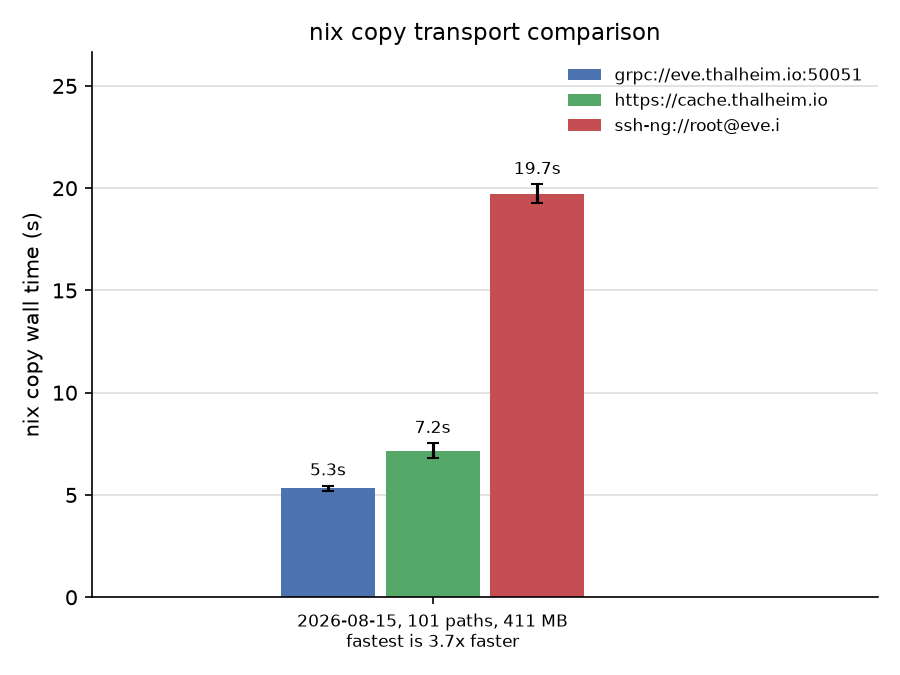
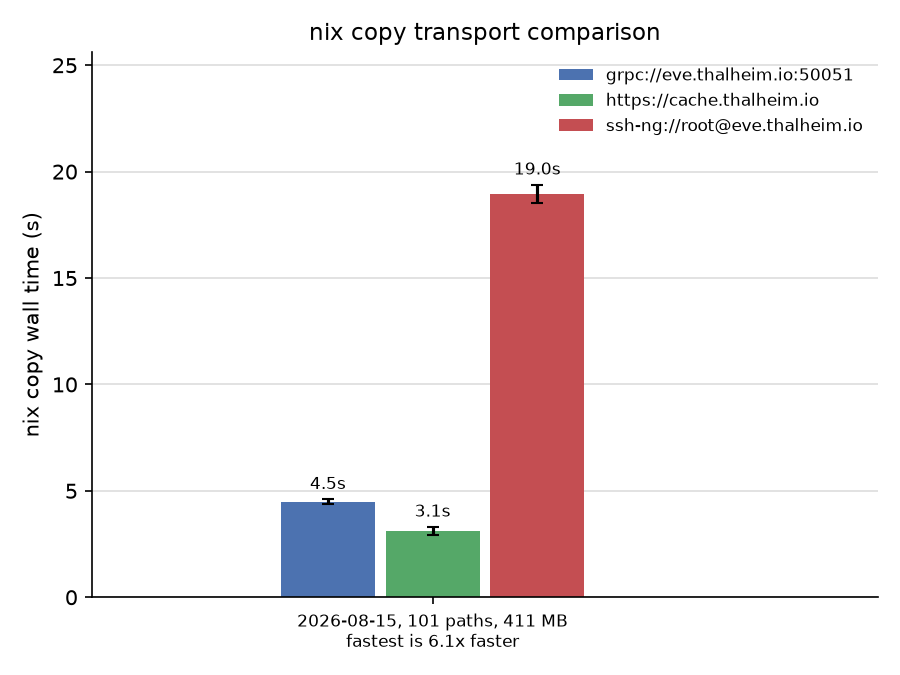
docs: refresh transport benchmark against updated server
Harmonia got significantly faster on the same host, so the old claim of
beating the HTTP binary cache no longer holds: pure downloads are now
fastest over https. Update the numbers and chart, and frame the gRPC
advantage as ssh replacement plus uploads/builds/mTLS on one endpoint.

diff --git a/README.md b/README.md
@@ -3,8 +3,7 @@
 **Status: Beta.** Safe to use but interfaces may change, so you will need to keep server/client in sync.
 
 Remote Nix store access over gRPC instead of SSH. `nix copy` over a WAN
-link is **3.7x faster than `ssh-ng://`** (and 1.4x faster than an HTTP
-binary cache served from the same machine) because round trips are hidden:
+link is **4.2x faster than `ssh-ng://`** because round trips are hidden:
 path-info queries are batched and NAR downloads are pipelined, so wall time
 is bandwidth-bound instead of latency-bound.
 
@@ -42,9 +41,13 @@ wired link with ~47 ms RTT, 6 interleaved runs each:
 
 | Transport                     | Wall time      | Throughput |
 | ----------------------------- | -------------- | ---------- |
-| `grpc://`                     | 5.3 s ± 0.14   | 77 MB/s    |
-| `https://` (harmonia)         | 7.2 s ± 0.37   | 57 MB/s    |
-| `ssh-ng://`                   | 19.7 s ± 0.46  | 21 MB/s    |
+| `https://` (harmonia)         | 3.1 s ± 0.20   | 132 MB/s   |
+| `grpc://`                     | 4.5 s ± 0.12   | 92 MB/s    |
+| `ssh-ng://`                   | 19.0 s ± 0.42  | 22 MB/s    |
+
+A static HTTP binary cache stays ahead for pure downloads, but it is
+download-only. The gRPC store keeps close while also handling uploads,
+remote builds, GC and mTLS through the same endpoint.
 
 Reproduce with `./scripts/bench-transports.py`.*
 
